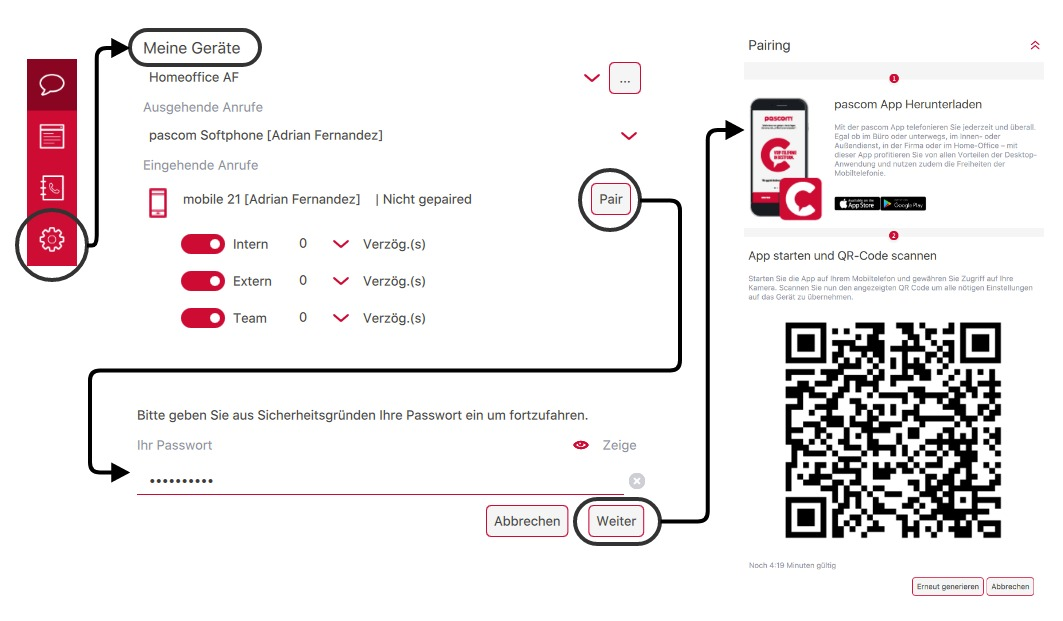
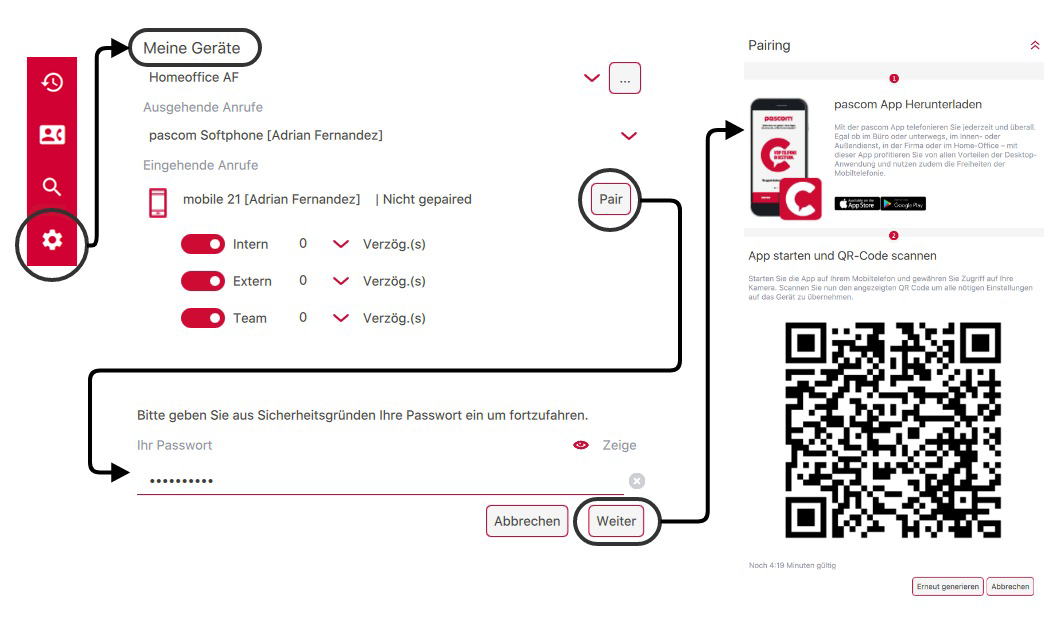
PM-1393 -  Mobile Client Handbook Doku

Changed region(s): [[0.0, 0.0918, 0.0931, 0.2448], [0.031, 0.2754, 0.0621, 0.4283]]

diff --git a/site/content/clients/mobile-userguide/_index.en.md b/site/content/clients/mobile-userguide/_index.en.md
@@ -48,34 +48,37 @@ As soon as the pascom mobile app has been setup and logged into, it can now be u
 
 The pascom mobile app consists of 6 menu options / features:
 
-+ The **contact list** displaying all your contacts, favourites and teams.
-+ The **chat** option enables you find all your chats & group chats
-+ The **telephony** tool enables phone calls, transfers & 3-way-conferencing as well as accessing your voicemail box.
-+ The **call history** provides an overview of all your calls on your office extension across all your devices.
-+ The **phone book** contains all you company & private phone book contacts
++ The [**contact-list**]({{< relref "#contact-list">}}) displaying all your contacts, favourites and teams.
++ The [**telephony**]({{< relref "#telefonieren">}}) tool enables phone calls, transfers & conferencing as well as accessing your voicemail box.
++ The [**call-history**]({{< relref "#journal">}}) provides an overview of all your calls on your office extension across all your devices.
++ The [**phonebook**]({{< relref "#telefonbuch">}}) contains all you company & private phone book contacts.
++ In the [**search**]({{< relref "#chat">}}) you can quickly find seach results for all possible areas
 + The **settings** menu option allows you to update your user profile, configure pascom mobile client settings as well as assigned device follow me settings.
+
 
 ![pascom mobile app](sections.png?width=50%)
 
 
-## Contact List
+## Profile and Contacts List
 
-![Contact List](contactlist.en.png?width=50%)
-
-
-### Contacts
-
-![Contacts](contactlist_stati.en.png?width=75%)
-
-#### Contact list functions:
+![My Profile](profile.en.png?width=90%)
 
 |Function|Description|
 |---|---|
-|Contact list filter|Can be used to display only specific contacts. Per default, three filters are available, *Client-User*, *Favourites* and *Team*. Favorites can be user defined by clicking on the star next to the receiver symbol. Further filters can be defined by your phone system admin using Roles.|
-|Client-User|Displays information regarding your internal [contacts]({{< relref "#contacts">}}).|
-|Favorites|Filters and display only those contacts added to your favorites.|
-|Teams|Lists the [Teams]({{< relref "#teams">}}) within which you are either a permanent or flexible member. The *Available* or *Offline* status here refers to wether you are currently logged into the team nore not.|
-|Search|Search tool to search through a.o. your contact list. |
+|Presence Status|It is possible to update your presence status with the following options:<br>- *Green* > Available<br>- *Yellow* > Away<br>- *Red* > Do Not Disturb / Busy (This option doesn't deliver DND functionality.)<br><br>Status texts can be customised according to requirements - simply select the correct presence and then click on the status text and replace it.|
+|Create new group|With the "+ symbol" you can create a new permanent team messaging / chat group.|
+|Contact list filter|Filter contacts to display only certain contacts. Per default, two filters are available as standard - *Favourites* and *Teams*. Favourites can be added by clicking on the star symbol next to a contact's handset icon. Additional filters can be defined by the system administrator using [Roles]({{< relref "/user/role">}}).|
+|Contacts |[Contact list]({{< relref "#Contacts">}}) displaying contact presence, extension and contact information.|
+|Phone Symbol |Click on the phone symbol to call the contact.|
+|Favourite Symbol|Simply mark your favourite contacts with the "star" symbol. These are then pinned at the top of the contact list.|
+|Teams | Under [Teams]({{< relref "#teams">}}) you will see all the teams of which you are either a permanent or dynamic member. The *Available* or *Offline* status signify whether you are currently logged into a team or not.|
+
+
+## Contacts
+
+Each contact in your contact list has various statuses, which can be seen in the following illustration.
+
+![Contacts](contacts.en.png?width=90%)
 
 ### Teams
 

diff --git a/site/content/clients/mobile-userguide/_index.de.md b/site/content/clients/mobile-userguide/_index.de.md
@@ -49,34 +49,40 @@ Sobald der pascom Mobile Client angemeldet wurde, kann dieser unabhängig vom [p
 Der pascom Mobile Client besteht grundsätzlich aus 6 Bereichen:
 
 + Die [**Kontaktliste**]({{< relref "#kontaktliste">}}) enthält alle Kontakte, Favoriten und Teams
-+ Im [**Chat**]({{< relref "#chat">}})-Bereich findet man alle Einzel- und Gruppenchats
-+ Im [**Telefonie**]({{< relref "#telefonieren">}})-Bereich können Gespräche und Dreierkonferenzen geführt werden. Auch die eigene Voicemailbox ist hier zu finden
++ Im [**Telefonie**]({{< relref "#telefonieren">}})-Bereich können Gespräche und Konferenzen geführt werden. Auch die eigene Voicemailbox ist hier zu finden
 + Im [**Journal**]({{< relref "#journal">}}) ist eine Übersicht aller getätigten Anrufe zu finden
 + Das [**Telefonbuch**]({{< relref "#telefonbuch">}}) enthält die Einträge aus dem privaten und Firmen-Telefonbuch
++ In der [**Suche**]({{< relref "#chat">}})findet man schnell Suchergebnisse zu allen möglichen Bereiche.
 + Alle **Einstellungen** zum Benutzerprofil, pascom Mobile Client und den eigenen Geräten befinden sich hier
 
 
 ![Client-Bereiche](sections.png?width=50%)
 
 
-## Kontaktliste
+## Profil und Kontaktliste
 
-![Kontaktliste](contactlist.de.png?width=50%)
-
-
-### Kontakte
-
-![Kontakte](contactlist_stati.de.png?width=75%)
+![Mein Profil](profile.de.png?width=90%)
 
 Funktionen in der Kontaktliste:
 
 |Funktion|Beschreibung|
 |---|---|
-|Filter für Kontaktliste|Hier können Sie über Filter nur bestimme Kontakte anzeigen lassen. Drei Filter sind standardmäßig schon vorhanden, *Client-User*, *Favoriten* und *Team*. Die Favoriten können Sie selber definieren, mit einem Klick auf das Sternchen neben dem Hörer-Symbol. Weitere Filter werden von Ihrem Administrator über Rollen festgelegt.|
-|Client-User|Hier erhalten Sie Informationen über Ihre [Kontakte]({{< relref "#kontakte">}}).|
-|Favoriten|Hier finden Sie Ihre favorisierten Kontakte, die sowohl Benutzer als auch Telefonbuch-Kontakte sein können.|
-|Teams|Hier sehen Sie die [Teams]({{< relref "#teams">}}) in denen Sie festes oder flexibles Mitglied sind. Der Status *Verfügbar* oder *Offline* bezieht sich in diesem Fall darauf, ob Sie eingebucht sind oder nicht.|
-|Suche|Hier können Sie Ihre Kontaktliste durchsuchen.|
+|Verfügbarkeits-Status|Es stehen zur Auswahl:<br>- *grün* > Verfügbar<br>- *gelb* > Bin gleich zurück<br>- *rot* > Bitte nicht stören (Diese Einstellung hat keine DND-Funktionalität.)<br>Die Status-Texte können Sie nach Bedarf ändern.|
+|Neue Gruppe erstellen|Über das "+ Symbol" können Sie eine neue permanente Gruppe erstellen.|
+|Filter für Kontaktliste|Über die Filter/Suche finden Sie schnell, anhand Ihrer Eingaben, die gewünschten Kontakte in Ihrer Kontaktliste.|
+|Kontakte|Hier erhalten Sie Informationen über Ihre [Kontakte]({{< relref "#kontakte">}}).|
+|Hörer-Symbol|Mit einem Klick auf den Hörer rufen Sie den Kontakt an.|
+|Favoriten makieren|Mit dem "Sternchen-Symbol" makieren Sie ganz einfach Ihre favorisierten Kontakte. Diese werden dann oben in der Kontaktliste angepinnt.|
+|Teams|Hier sehen Sie die [Teams]({{< relref "#teams">}}) in denen Sie ein festes oder flexibles Mitglied sind. Der Status *Verfügbar* oder *Offline* bezieht sich in diesem Fall darauf, ob Sie eingebucht sind oder nicht.|
+
+
+
+## Kontakte
+
+Jeder Kontakt in Ihrer Kontaktliste besitzt diverse Status, welche anhand der folgenden Darstellung erkennbar sind.
+
+![Kontakte](contacts.de.png?width=90%)
+
 
 
 ### Teams

diff --git a/site/content/clients/desktop-userguide/_index.de.md b/site/content/clients/desktop-userguide/_index.de.md
@@ -60,8 +60,6 @@ Die verschiedenen Ansicht-Möglichkeiten des Clients:
 
 Zwischen den verschiedenen Ansichten können Sie wechseln, indem Sie die Größe des Clients ändern oder indem Sie [Tastenkürzel]({{< relref "#tastenkürzel">}}) verwenden.
 
-Im Folgenden werden die einzelnen Bereiche und Funktionen näher erklärt.
-
 ## Profil und Kontaktliste
 
 ![Mein Profil](profile.de.png?width=90%)

diff --git a/site/content/server/cloud/_index.en.md b/site/content/server/cloud/_index.en.md
@@ -28,7 +28,7 @@ However, should you choose to, you can specify which internet services your comp
 
 #### Telephony and Instant Messaging
 
-| Port | Descriptuon |
+| Port | Description |
 | ---- | ------------ |
 | TCP **5061** | SIP-TLS - secure SIP communication |
 | TCP **5222** | pascom Desktop and Mobile client access |

diff --git a/site/content/clients/desktop-userguide/_index.en.md b/site/content/clients/desktop-userguide/_index.en.md
@@ -76,7 +76,7 @@ In order to simplify switching the various views, it is possible to toggle the s
 
 Each contact in your contact list has various statuses, which can be seen in the following illustration.
 
-![Contacts](contacts.en.png?width=75%)
+![Contacts](contacts.en.png?width=90%)
 
 ## Teams
 
